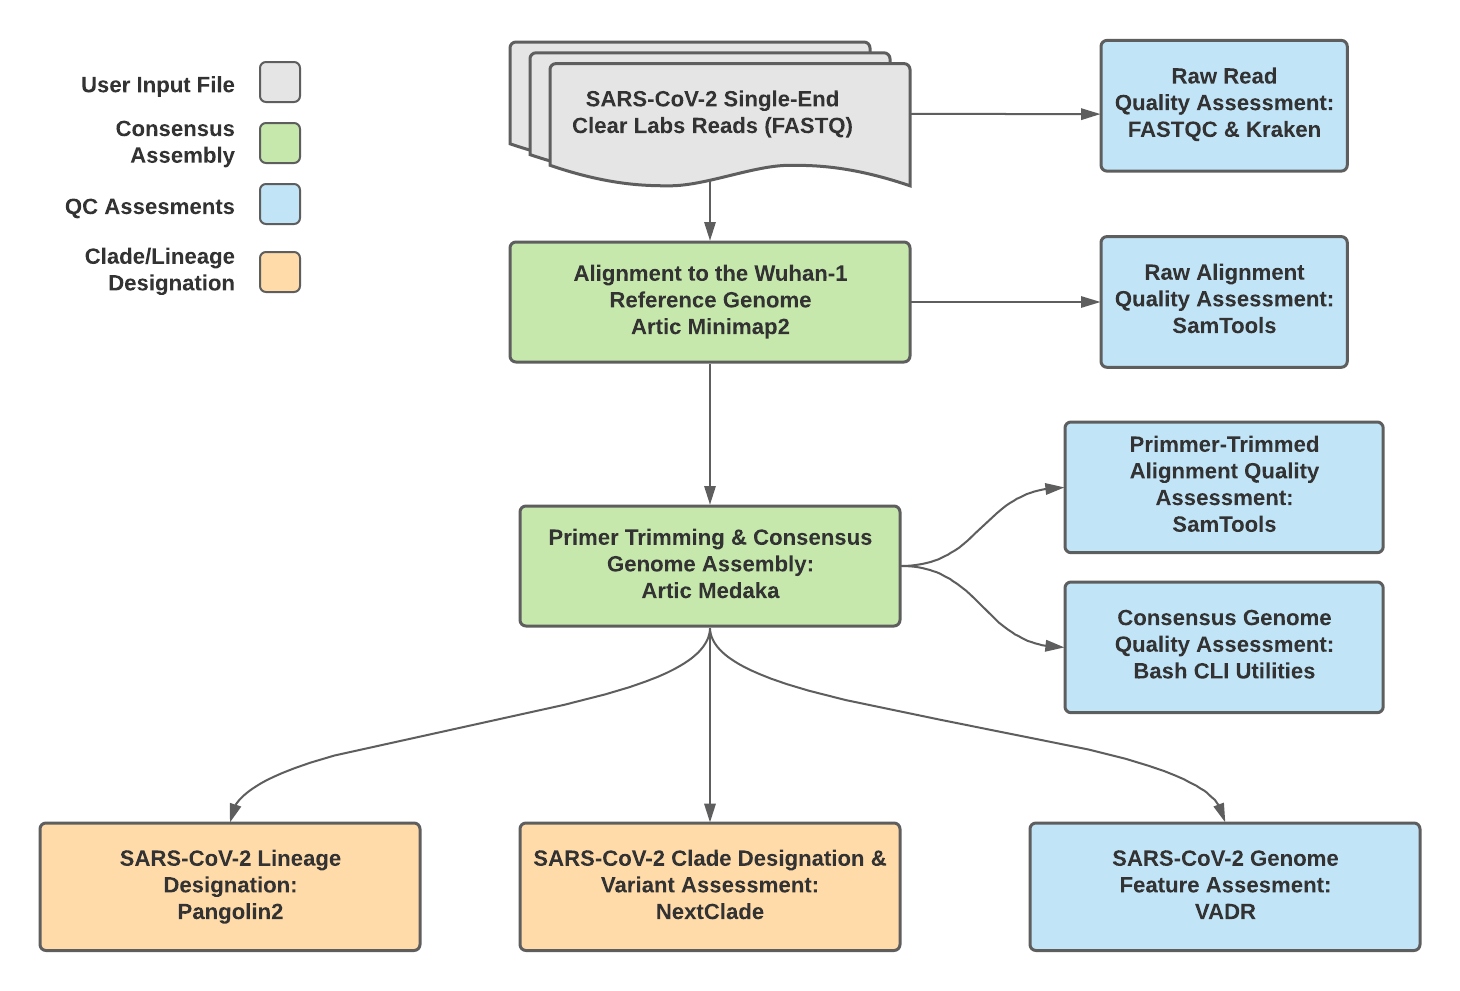
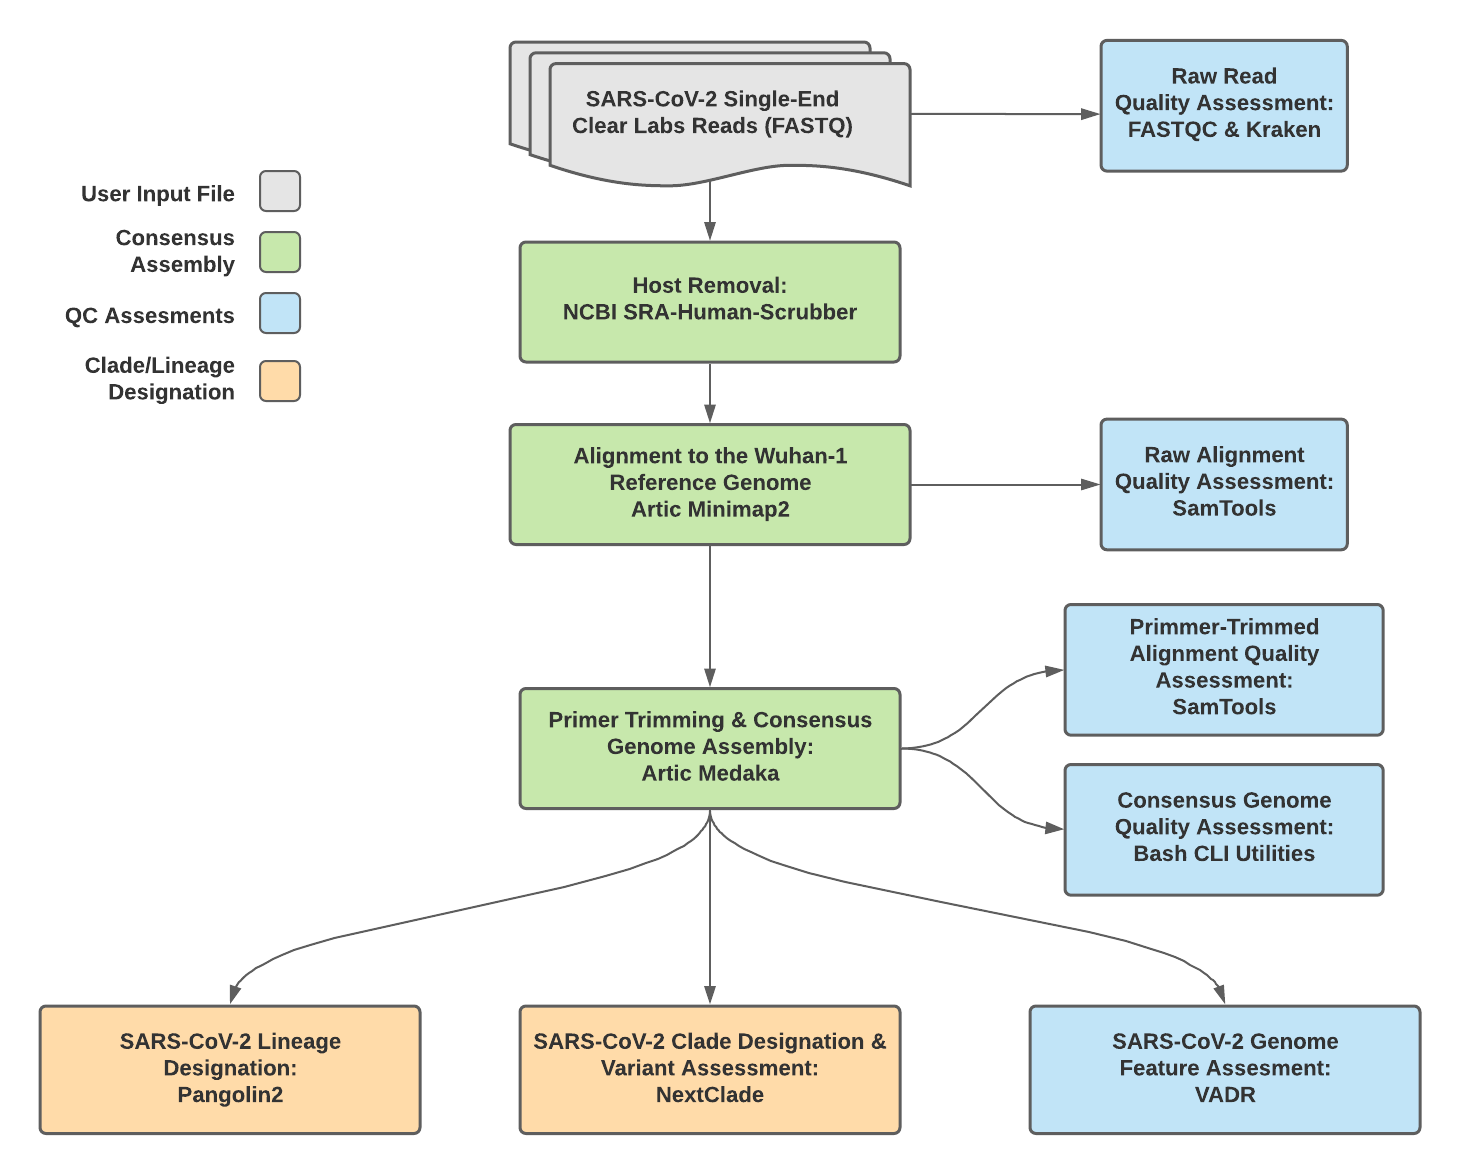
Update docs for v1.4.3 release

diff --git a/docs/source/conf.py b/docs/source/conf.py
@@ -22,7 +22,7 @@ copyright = '2021, Theiagen Genomics, LLC'
 author = 'Kevin G. Libuit'
 
 # The full version, including alpha/beta/rc tags
-release = '1.4.2'
+release = '1.4.3'
 
 
 # -- General configuration ---------------------------------------------------

diff --git a/docs/source/titan_workflows.rst b/docs/source/titan_workflows.rst
@@ -40,7 +40,7 @@ Upon initiating a Titan_Illumina_PE job, the input primer scheme coordinates and
    
    **Titan_Illumina_PE v1.4.2 Data Workflow**
 
-Consensus genome assembly with the Titan_Illumina_PE workflow is performed by first trimming low-quality reads with Trimmomatic and removing adapter sequences with BBDuk.  These cleaned read data are then aligned to the Wuhan-1 reference genome with BWA to generate a Binary Alignment Mapping (BAM) file. Primer sequences are then removed from the BAM file using the iVar Trim sub-command. The iVar consensus sub-command is then  utilized to generate a consensus assembly in FASTA format. This assembly is then used to assign lineage and clade designations with Pangolin and NextClade. NCBI’S VADR tool is also employed to screen for potentially errant features (e.g. erroneous frame-shift mutations) in the consensus assembly.  
+Consensus genome assembly with the Titan_Illumina_PE workflow is performed by first de-hosting read data with the NCBI SRA-Human-Scrubber tool then trimming low-quality reads with Trimmomatic and removing adapter sequences with BBDuk.  These cleaned read data are then aligned to the Wuhan-1 reference genome with BWA to generate a Binary Alignment Mapping (BAM) file. Primer sequences are then removed from the BAM file using the iVar Trim sub-command. The iVar consensus sub-command is then  utilized to generate a consensus assembly in FASTA format. This assembly is then used to assign lineage and clade designations with Pangolin and NextClade. NCBI’S VADR tool is also employed to screen for potentially errant features (e.g. erroneous frame-shift mutations) in the consensus assembly.  
 
 More information on required user inputs, optional user inputs, default tool parameters and the outputs generated by Titan_Illumina_PE are outlined below.   
 
@@ -145,7 +145,7 @@ Upon initiating a Titan_ClearLabs run,  input ClearLabs read data provided for e
    
    **Titan_ClearLabs v1.4.2 Data Workflow**
 
-Consensus genome assembly with the Titan_ClearLabs workflow is performed in accordance to the `Artic nCoV-2019 novel coronavirs bioinformatics protocol <https://artic.network/ncov-2019/ncov2019-bioinformatics-sop.html>`. Briefly, input reads are aligned to the Wuhan-1 reference genome with minimap2 to generate a Binary Alignment Mapping (BAM) file. Primer sequences are then removed from the BAM file and a consensus assembly file is generated using the Artic medaka command. This assembly is then used to assign lineage and clade designations with Pangolin and NextClade. NCBI’S VADR tool is also employed to screen for potentially errant features (e.g. erroneous frame-shift mutations) in the consensus assembly.  
+Consensus genome assembly with the Titan_ClearLabs workflow is performed by first de-hosting read data with the NCBI SRA-Human-Scrubber tool then following the `Artic nCoV-2019 novel coronavirs bioinformatics protocol <https://artic.network/ncov-2019/ncov2019-bioinformatics-sop.html>`. Briefly, input reads are aligned to the Wuhan-1 reference genome with minimap2 to generate a Binary Alignment Mapping (BAM) file. Primer sequences are then removed from the BAM file and a consensus assembly file is generated using the Artic medaka command. This assembly is then used to assign lineage and clade designations with Pangolin and NextClade. NCBI’S VADR tool is also employed to screen for potentially errant features (e.g. erroneous frame-shift mutations) in the consensus assembly.  
 
 .. note::
   Read-trimming is performed on raw read data generated on the ClearLabs instrument and thus not a required step in the Titan_ClearLabs workflow.
@@ -203,7 +203,7 @@ Upon initiating a Titan_ONT run,  input ONT read data provided for each sample w
    
    **Titan_ONT v1.4.2 Data Workflow**
 
-Consensus genome assembly with the Titan_ONT workflow is performed in accordance to the `Artic nCoV-2019 novel coronavirs bioinformatics protocol <https://artic.network/ncov-2019/ncov2019-bioinformatics-sop.html>`. Briefly, input reads are filtered by size (min-length: 400bp; max-length: 700bp) with the Aritc guppyplex command.  These size-selected read data are aligned to the Wuhan-1 reference genome with minimap2 to generate a Binary Alignment Mapping (BAM) file. Primer sequences are then removed from the BAM file and a consensus assembly file is generated using the Artic medaka command. This assembly is then used to assign lineage and clade designations with Pangolin and NextClade. NCBI’S VADR tool is also employed to screen for potentially errant features (e.g. erroneous frame-shift mutations) in the consensus assembly.  
+Consensus genome assembly with the Titan_ONT workflow is performed performed by first de-hosting read data with the NCBI SRA-Human-Scrubber tool then following then following  `Artic nCoV-2019 novel coronavirs bioinformatics protocol <https://artic.network/ncov-2019/ncov2019-bioinformatics-sop.html>`. Briefly, input reads are filtered by size (min-length: 400bp; max-length: 700bp) with the Aritc guppyplex command.  These size-selected read data are aligned to the Wuhan-1 reference genome with minimap2 to generate a Binary Alignment Mapping (BAM) file. Primer sequences are then removed from the BAM file and a consensus assembly file is generated using the Artic medaka command. This assembly is then used to assign lineage and clade designations with Pangolin and NextClade. NCBI’S VADR tool is also employed to screen for potentially errant features (e.g. erroneous frame-shift mutations) in the consensus assembly.  
 
 More information on required user inputs, optional user inputs, default tool parameters and the outputs generated by Titan_ONT are outlined below.   
 
